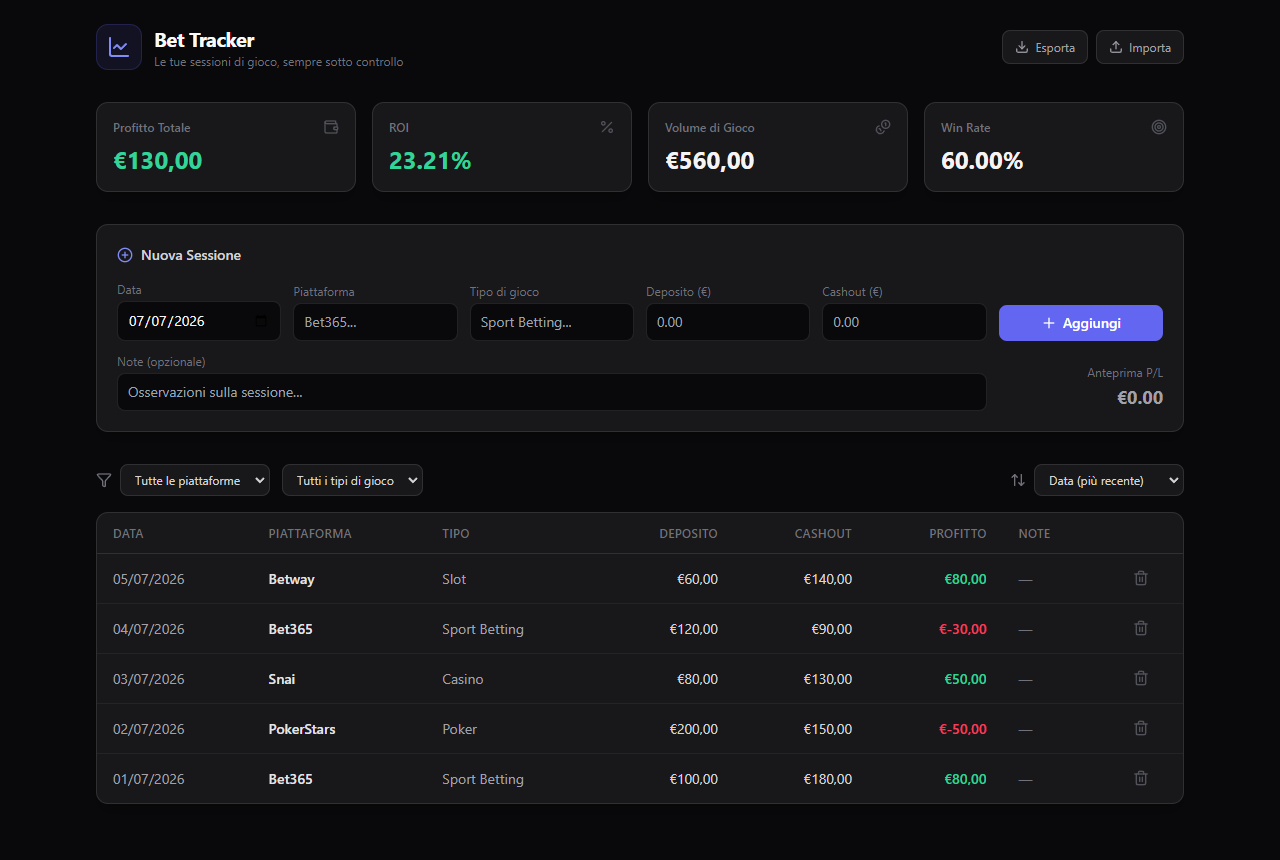
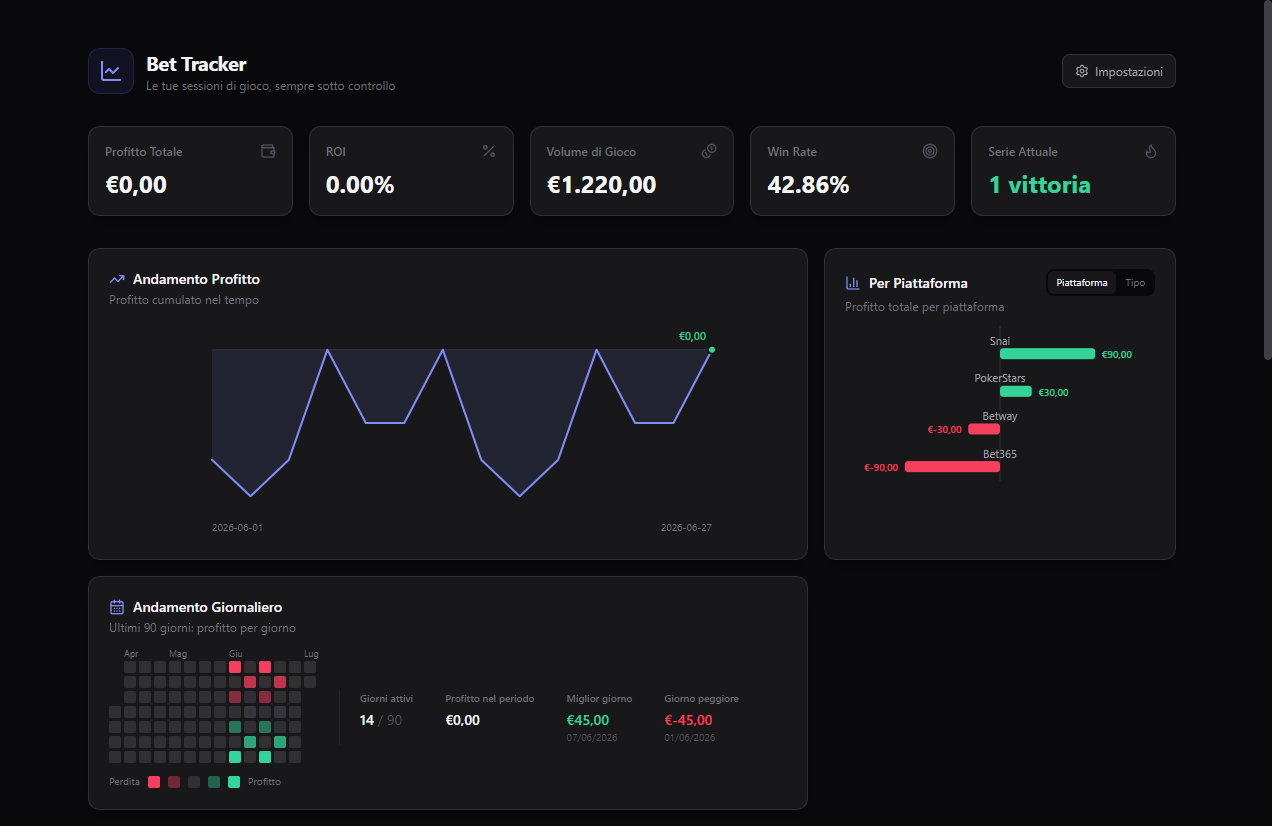
Integrate calendar heatmap into charts grid, add period stats, refresh README screenshots
The heatmap previously lived in its own full-width section, mostly empty space beside the compact grid. It now sits alongside the profit/grouping charts (col-span-2, matching the profit chart's width) and gains a stats panel (active days, period profit, best/worst day) that fills the space next to the grid instead of leaving it blank.

diff --git a/index.html b/index.html
@@ -219,15 +219,18 @@
       <p class="text-xs text-[var(--ink-muted)] mb-3" id="groupChartSubtitle">Profitto totale per piattaforma</p>
       <div id="platformChart" class="relative"></div>
     </div>
-  </section>
 
-  <!-- Heatmap -->
-  <section class="bg-[var(--surface-card)] border border-[var(--border-hairline)] rounded-xl p-5 shadow-lg shadow-black/20 mb-8">
-    <h2 class="text-sm font-semibold text-[var(--ink-primary)] mb-0.5 flex items-center gap-2">
-      <i data-lucide="calendar-days" class="w-4 h-4 text-[var(--accent-ink)]"></i> Andamento Giornaliero
-    </h2>
-    <p class="text-xs text-[var(--ink-muted)] mb-3">Ultimi 90 giorni: profitto per giorno</p>
-    <div id="heatmapChart" class="relative overflow-x-auto"></div>
+    <!-- Heatmap -->
+    <div class="lg:col-span-2 bg-[var(--surface-card)] border border-[var(--border-hairline)] rounded-xl p-5 shadow-lg shadow-black/20">
+      <h2 class="text-sm font-semibold text-[var(--ink-primary)] mb-0.5 flex items-center gap-2">
+        <i data-lucide="calendar-days" class="w-4 h-4 text-[var(--accent-ink)]"></i> Andamento Giornaliero
+      </h2>
+      <p class="text-xs text-[var(--ink-muted)] mb-3">Ultimi 90 giorni: profitto per giorno</p>
+      <div class="flex flex-col sm:flex-row sm:items-center gap-5">
+        <div id="heatmapChart" class="relative overflow-x-auto shrink-0"></div>
+        <div id="heatmapStats" class="flex flex-wrap gap-x-8 gap-y-3 sm:pl-5 sm:border-l border-[var(--divide-hairline)]"></div>
+      </div>
+    </div>
   </section>
 
   <!-- Form -->
@@ -837,6 +840,7 @@
 
   function renderHeatmap() {
     const container = document.getElementById('heatmapChart');
+    const statsContainer = document.getElementById('heatmapStats');
     const today = new Date();
     today.setHours(0, 0, 0, 0);
     const rangeStart = new Date(today);
@@ -858,10 +862,44 @@
     const activeDays = daysInRange.filter((d) => byDate.has(toISO(d)));
     if (activeDays.length === 0) {
       chartEmptyState(container, 'Nessuna sessione negli ultimi 90 giorni');
+      statsContainer.innerHTML = '';
       return;
     }
 
     const maxAbs = Math.max(1, ...activeDays.map((d) => Math.abs(byDate.get(toISO(d)).profit)));
+
+    let periodProfit = 0;
+    let bestDay = null;
+    let worstDay = null;
+    for (const d of activeDays) {
+      const entry = byDate.get(toISO(d));
+      periodProfit += entry.profit;
+      if (!bestDay || entry.profit > byDate.get(toISO(bestDay)).profit) bestDay = d;
+      if (!worstDay || entry.profit < byDate.get(toISO(worstDay)).profit) worstDay = d;
+    }
+    const periodProfitClass = periodProfit > 0 ? 'text-[var(--good)]' : periodProfit < 0 ? 'text-[var(--bad)]' : 'text-[var(--ink-primary)]';
+    const bestProfit = byDate.get(toISO(bestDay)).profit;
+    const worstProfit = byDate.get(toISO(worstDay)).profit;
+    statsContainer.innerHTML = `
+      <div>
+        <p class="text-[10px] text-[var(--ink-muted)] font-medium mb-1">Giorni attivi</p>
+        <p class="text-sm font-semibold text-[var(--ink-primary)]">${activeDays.length} <span class="text-[var(--ink-faint)] font-normal">/ ${daysInRange.length}</span></p>
+      </div>
+      <div>
+        <p class="text-[10px] text-[var(--ink-muted)] font-medium mb-1">Profitto nel periodo</p>
+        <p class="text-sm font-semibold ${periodProfitClass}">${formatCurrency(periodProfit)}</p>
+      </div>
+      <div>
+        <p class="text-[10px] text-[var(--ink-muted)] font-medium mb-1">Miglior giorno</p>
+        <p class="text-sm font-semibold text-[var(--good)]">${formatCurrency(bestProfit)}</p>
+        <p class="text-[10px] text-[var(--ink-faint)]">${formatDate(toISO(bestDay))}</p>
+      </div>
+      <div>
+        <p class="text-[10px] text-[var(--ink-muted)] font-medium mb-1">Giorno peggiore</p>
+        <p class="text-sm font-semibold text-[var(--bad)]">${formatCurrency(worstProfit)}</p>
+        <p class="text-[10px] text-[var(--ink-faint)]">${formatDate(toISO(worstDay))}</p>
+      </div>
+    `;
 
     const gridStart = new Date(rangeStart);
     const dow = (gridStart.getDay() + 6) % 7; // 0 = Monday

diff --git a/README.md b/README.md
@@ -6,6 +6,10 @@ App per tracciare le proprie sessioni di scommesse e gioco: dashboard con KPI, s
 
 ![Screenshot Bet Tracker](docs/screenshot.png)
 
+Tema chiaro/scuro e colore d'accento personalizzabili dal pannello Impostazioni:
+
+![Screenshot pannello Impostazioni](docs/screenshot-settings.png)
+
 ## Download
 
 | Piattaforma | Release |